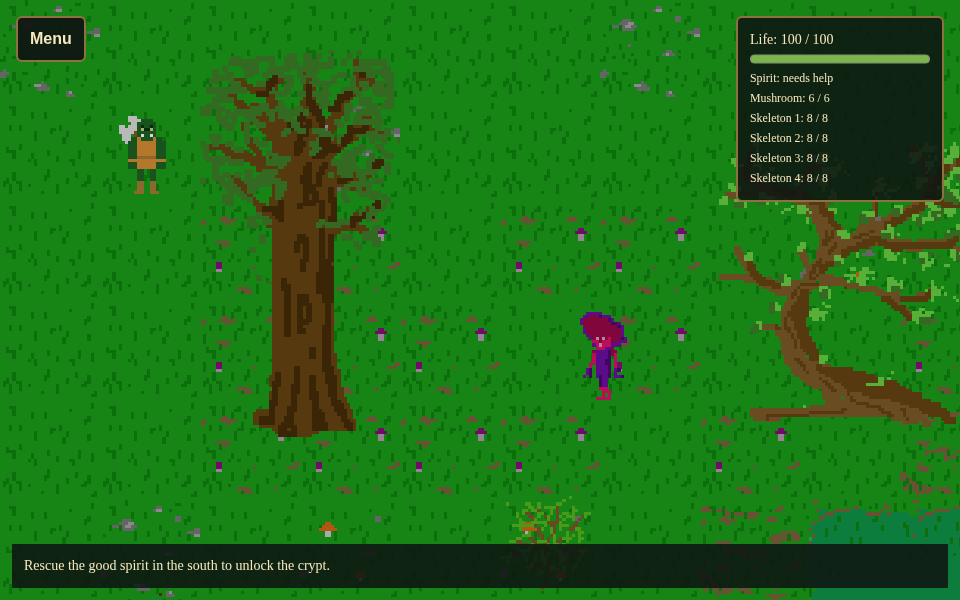
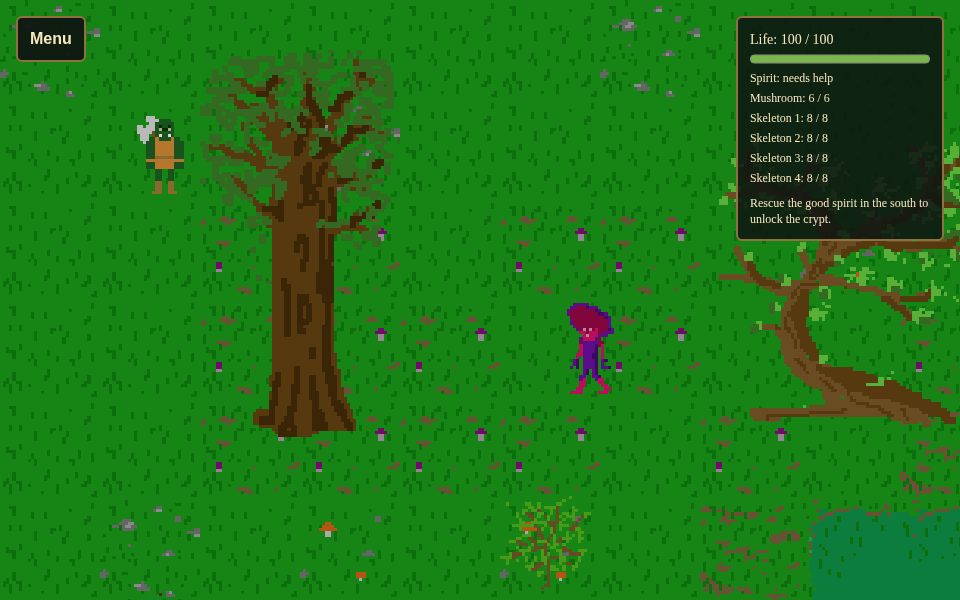
Show Swamps objectives in paused shinyalert dialogs

diff --git a/inst/examples/swamps_rpg/README.md b/inst/examples/swamps_rpg/README.md
@@ -8,11 +8,17 @@ four defeat each skeleton. Contact costs 10 (mushroom) or 12 (skeleton) life
 points, with one shared one-second damage cooldown. At zero life, use the menu
 to restart or load a save.
 
-From the repository root, after installing the current shinyphaser version:
+From the repository root, with the current shinyphaser version and its suggested
+`shinyalert` package installed:
 
 ```r
 shiny::runApp("inst/examples/swamps_rpg")
 ```
+
+Objective instructions appear in `shinyalert` popups: first rescue the spirit,
+then enter the crypt. The game pauses while you read and resumes on Continue.
+New game and loading unfinished progress show the appropriate objective again.
+Combat and save/load feedback stays in the HUD rather than along the bottom.
 
 ## Features to try
 

diff --git a/NEWS.md b/NEWS.md
@@ -27,8 +27,8 @@ Existing apps need to update their event handlers to use the explicit
 * Overlaps are edge-triggered by default and notify Shiny only when a
   `server_action` is supplied; sustained handlers can use `mode = "stay"` and
   `interval` throttling.
-* Prevented older animation timers from interrupting newer damage or destruction
-  animations.
+* Fixed interrupted hit and destruction animations: timers from earlier
+  animations no longer return the sprite to idle prematurely.
 * Moved sprite movement delays from blocking R sleeps to browser timers.
 * Queued sprite physics actions until sprites finish loading so setup calls such as `set_gravity()` are not lost during asynchronous asset initialization.
 
